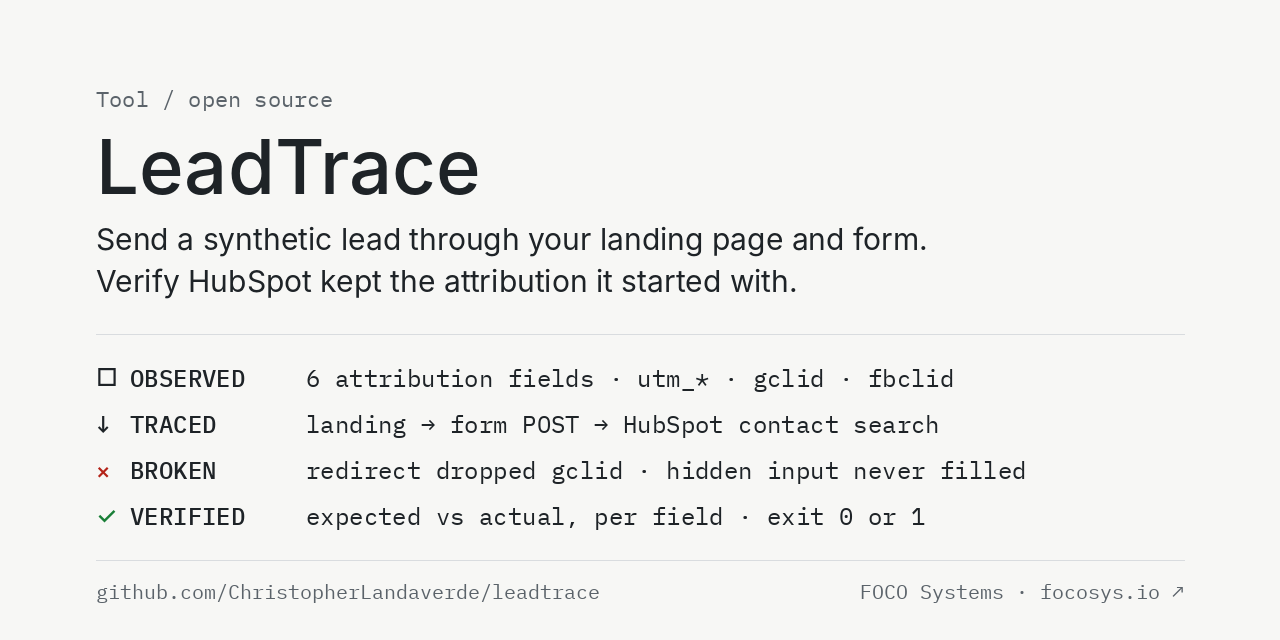
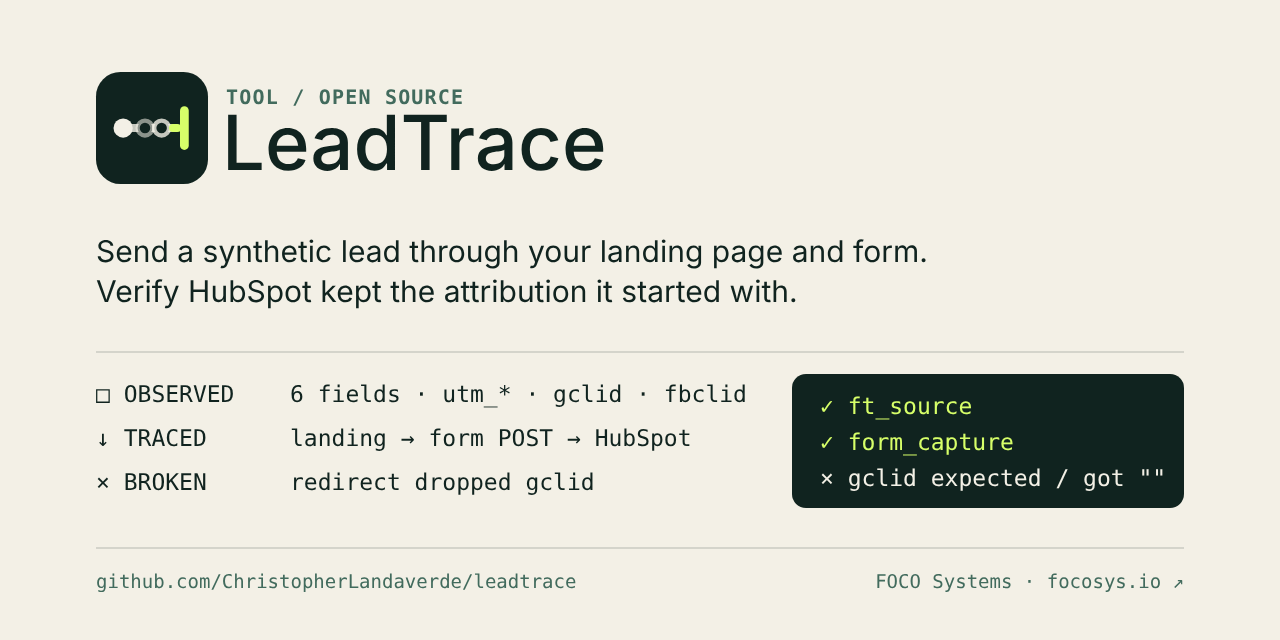
Bring LeadTrace to visual parity with PipeTrace
Logo in the Focosys family, centered README header with claim, evidence line,
badges and nav, flow diagram, family color tokens in DESIGN.md, rebuilt social
preview, CHANGELOG.

Claude-Session: https://claude.ai/code/session_01CtqYDnu9mU7XbqmBuhaDvM

diff --git a/README.md b/README.md
@@ -1,10 +1,37 @@
-# LeadTrace
+<p align="center">
+  <img src="docs/images/logo.png" width="96" height="96" alt="LeadTrace logo: one paper lead dot traced through two handoff rings on a dark green tile, ending at a lime verified bar">
+</p>
 
-LeadTrace sends one synthetic lead through your landing page and form, your
-form webhook, or your server-side GTM endpoint. It then checks whether
-HubSpot still holds the attribution the lead started with.
+<h1 align="center">LeadTrace</h1>
 
-`Tool / README · v0.2.0 · HubSpot ingestion audit, assumptions, and limits`
+<p align="center">
+  <strong>A paid click can reach HubSpot labeled as direct, and nothing in the pipeline throws an error. Send one synthetic lead through your landing page and form, and see the handoff where the attribution changed.</strong>
+</p>
+
+<p align="center">
+  3 audit modes: browser, webhook, sGTM · 6 attribution fields checked per lead · 40 tests in CI on Python 3.9–3.12, 14 of them driving real headless Chrome · read-only on HubSpot · no runtime dependencies in the core CLI
+</p>
+
+<p align="center">
+  <a href="https://github.com/ChristopherLandaverde/leadtrace/actions/workflows/ci.yml"><img src="https://github.com/ChristopherLandaverde/leadtrace/actions/workflows/ci.yml/badge.svg?branch=main" alt="CI"></a>
+  <a href="pyproject.toml"><img src="https://img.shields.io/badge/python-3.9%E2%80%933.12-10231F" alt="Python 3.9 to 3.12"></a>
+  <a href="LICENSE"><img src="https://img.shields.io/badge/license-MIT-10231F" alt="License: MIT"></a>
+</p>
+
+<p align="center">
+  <a href="#the-trace">The trace</a> · <a href="#scope">Scope</a> · <a href="#run-a-hubspot-audit">Run an audit</a> · <a href="#browser-form">Browser form</a> · <a href="#output">Output</a> · <a href="CHANGELOG.md">Changelog</a> · <a href="https://focosys.io">focosys.io ↗</a>
+</p>
+
+`CLI · Nov 2026 · v0.2.0 · Implementation notes, assumptions, and limits · Walkthrough / no client data`
+
+LeadTrace is a command-line audit for marketing ops and RevOps engineers who need to trust the first-touch fields in HubSpot before reporting on them. By Christopher Landaverde, FOCO Systems. It sends one synthetic lead through your landing page and form, your form webhook, or your server-side GTM endpoint. It then checks whether HubSpot still holds the attribution the lead started with.
+
+<p align="center">
+  <img src="docs/images/flow.svg" width="880" alt="LeadTrace flow. A synthetic lead with utm_source, utm_medium, utm_campaign, gclid and fbclid opens the landing page in headless Chromium. Check landing: the URL at submit still carries all five params. The real form is filled and submitted. Check form_capture: the POST carrying the synthetic email has every tracking value. HubSpot contact search by exact email. Checks: each field matches what was sent, and sync latency is inside the SLA. Output: a trace record, exit 0 or 1.">
+  <br><sub>Browser mode shown. Check names match the report keys.</sub>
+</p>
+
+## The trace
 
 ```
 □ OBSERVED   one synthetic lead with 6 attribution fields: ft_source, ft_medium,
@@ -14,8 +41,9 @@ HubSpot still holds the attribution the lead started with.
 × BROKEN     a redirect that drops a tracking param, a hidden input that is
              never filled, any field missing or changed in HubSpot, a contact
              that is missing or duplicated, or a sync slower than the SLA
-✓ VERIFIED   a JSON report with expected and actual values for each check.
-             Exit 0 = every check passed. Exit 1 = at least one failed.
+✓ VERIFIED   a trace record on a terminal, JSON when piped, with expected and
+             actual values for each check. Exit 0 = every check passed.
+             Exit 1 = at least one failed.
 ```
 
 ## Scope

diff --git a/DECISIONS.md b/DECISIONS.md
@@ -33,3 +33,10 @@ Decided without approval. Each one is reversible on this branch.
 - **ASCII fallback for terminals that cannot encode the glyphs** (Windows cp1252): `□ -` `↓ v` `× x` `✓ +`.
 - **The README example is real output** from the local test site, not hand-written.
 - **Review (Sonnet): 0 blockers, 3 should-fix, all fixed.** Failure details now come from each check's own pass/fail. The renderer tolerates missing keys, and a render error falls back to JSON so a finished audit is never lost. A late sync shows once in `verify`. Nits fixed: the `generate --out` message is unchanged from before, the dry run says "nothing sent", early stops say later checks did not run, and negative latency is explained. Nit kept: a `created_timestamp` of 0 counts as missing (old behavior, unrealistic value).
+
+## Brand pass 3: visual parity with PipeTrace (2026-11-22)
+
+- **Replaced the invented tokens with the Focosys family tokens from PipeTrace** (`#10231F`, `#F3F0E6`, `#EBE8DE`, `#426B5D`, `#D7FF69`). The brand skill only specified `#1e2327`. The rest had been guessed and did not match PipeTrace, OSRA or Rabbit.
+- **README header matches PipeTrace's structure:** logo, centered title, incident-sentence claim, evidence line, badges in `#10231F`, nav row, metadata line, flow diagram.
+- **Logo in the same family:** a paper lead dot, two handoff rings, a lime verified bar.
+- **Lime only on ink:** it has no contrast on paper. The family has no red, so `×` is ink in the images. The terminal keeps ANSI red/green.

diff --git a/DESIGN.md b/DESIGN.md
@@ -19,18 +19,20 @@ glyph (`□`) or draws it poorly (`✓` at display sizes), fall back to Inter fo
 
 ## Color
 
+Focosys family tokens, the same set as PipeTrace, OSRA and Rabbit:
+
 | Token | Value | Use |
 |---|---|---|
-| `ink` | `#1e2327` | all text and rules (light mode) |
-| `paper` | `#f7f7f5` | background (light mode) |
-| `ink-muted` | `#5b636a` | metadata lines |
-| `rule` | `#d9dcdf` | thin rules, 1 px |
-| `status-broken` | `#b42318` | `×` only |
-| `status-verified` | `#1a7f37` | `✓` only |
+| `ink-primary` | `#10231F` | text, rules, logo tile, dark output boxes |
+| `surface-paper` | `#F3F0E6` | backgrounds, stage boxes, text on ink |
+| `surface-source` | `#EBE8DE` | input/source boxes in diagrams |
+| `ink-muted` | `#426B5D` | metadata, mono detail text, section labels |
+| `state-verified` | `#D7FF69` | `✓` and verified totals, only on `ink-primary` |
 
-Dark mode inverts `ink` and `paper`. Color appears only as status, never as
-decoration. In the terminal, status color is ANSI red/green, only on a TTY,
-and never when `NO_COLOR` is set.
+`state-verified` lime is only used on the dark ink, never on paper, because
+it has no contrast there. The family has no red token, so `×` is drawn in
+ink. In the terminal, status color is ANSI red/green, only on a TTY, and
+never when `NO_COLOR` is set.
 
 ## Glyphs
 

diff --git a/CHANGELOG.md b/CHANGELOG.md
@@ -1,0 +1,14 @@
+# Changelog
+
+`Changelog · Nov 2026 · what changed, by version`
+
+## 0.2.0 · 2026-11-22
+
+- `audit --mode browser` runs the landing page and the real form in headless Chromium. The new checks are `landing` (URL params kept at submit) and `form_capture` (the form POST carries every tracking value). Install with `pip install 'leadtrace[browser]'`.
+- Every command prints a trace record on a terminal. `audit --format auto|json|trace` keeps JSON when output is piped.
+- `verify` reports unknown sync latency as unknown instead of `0.0`. In that case `ParityResult.latency_minutes` and the MCP `verify_crm_parity` result are `null`.
+- CI runs on Python 3.9–3.12 (`ubuntu-24.04`), plus a browser job.
+
+## 0.1.0
+
+- `audit` in webhook and sGTM modes, plus the offline `generate`, `inject`, `verify` and `mcp` commands.
